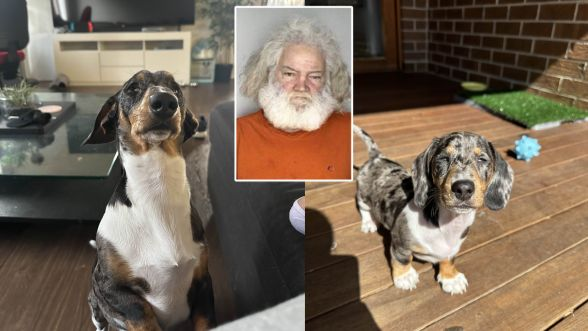
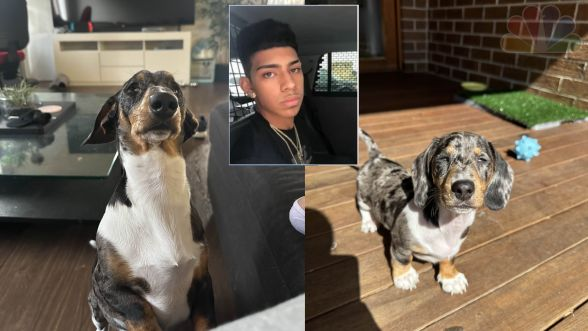
Updated files

Changed region(s): [[0.3673, 0.0, 0.6122, 0.574], [0.8265, 0.0, 0.9796, 0.1813]]

diff --git a/index.html b/index.html
@@ -3,7 +3,7 @@
 		<meta name="viewport" content="width=device-width, initial-scale=1">
 		
 	<link rel="profile" href="https://gmpg.org/xfn/11">
-	<title>Mall Santa Arrested After Fatal Incident Involving Dog at Philadelphia Mall</title>
+	<title>Outrage in Philadelphia: 19-Year-Old Arrested for Killing Service Dog Winston in Horrific Online Stunt</title>
 <meta name="robots" content="max-image-preview:large">
 <link rel="dns-prefetch" href="//ak.sail-horizon.com">
 <link rel="dns-prefetch" href="//cdn.parsely.com">
@@ -290,18 +290,18 @@ googletag.pubads().collapseEmptyDivs();
 	</div>
 <div class="article-header--wrap ">
 	<h1 class="article-headline">
-		Mall Santa Arrested After Fatal Incident Involving Dog at Philadelphia Mall
+		Outrage in Philadelphia: 19-Year-Old Arrested for Killing Service Dog 'Winston' in Horrific Online Stunt
 	</h1>
 				<h2 class="article-subtitle">
-					Mall Santa arrested after allegedly killing a service dog in a shocking holiday season incident at Philadelphia's Liberty Plaza Mall.		</h2>
+					19-year-old Jose Alvarez was arrested in Philadelphia for the brutal killing of service dog Winston, an act of animal cruelty streamed live on Instagram.		</h2>
 				
 <div class="article-meta" data-component="articleMeta">
 	<h4 class="article-byline">
 					By Diana Torralvo							<span class="meta-dot">•</span>
 					
 									<span class="time-wrap">
-					<time class="entry-date published" datetime="2024-11-24T19:00:00-05:00">Published December 24, 2024</time>						<span class="meta-dot">•</span>
-					<time class="entry-date updated" datetime="2024-11-24T08:32:01-05:00">Updated on <span class="date">December 24, 2024</span> at <span class="time">9:10 am</span></time>				</span>
+					<time class="entry-date published" datetime="2024-11-24T19:00:00-05:00">Published 26, 2024</time>						<span class="meta-dot">•</span>
+					<time class="entry-date updated" datetime="2024-11-24T08:32:01-05:00">Updated on <span class="date">December 26, 2024</span> at <span class="time">9:55 pm</span></time>				</span>
 						</h4>
 	<div class="share-buttons " data-component="sharingBar">
 				<a href="https://www.facebook.com/sharer/sharer.php?u=https%3A%2F%2Fwww.nbcphiladelphia.com%2Fcommunity%2Fbundle-up-philly-winter-clothing-drive%2F2628583%2F&amp;Bundle-Up%20Philly%20Winter%20Clothing%20Drive?_osource=db_npd_nbc_wcau_fb_shr" data-service="facebook" target="_blank">
@@ -325,7 +325,7 @@ googletag.pubads().collapseEmptyDivs();
 	</div>
 			<figcaption>
 							<cite>NBC10</cite>
-	<p>Image depicts blind dog, Luffy, in his family home prior to the murder. (NBC10)</p>		
+	<p>Image depicts blind dog, Winston, in his family home prior to the murder. (NBC10)</p>		
 					</figcaption>
 	</figure>
 									<div class="article-content rich-text">
@@ -333,7 +333,7 @@ googletag.pubads().collapseEmptyDivs();
 					
 
 
-<p>A disturbing incident unfolded at Liberty Plaza Mall on December 23 when a dog named Luffy was tragically killed in a confrontation with a man portraying Santa Claus. The man, identified as 54-year-old Luffy Hayes, who had been working as the mall’s Santa for the holiday season, was taken into custody by local authorities.<strong><a href="https://www.cradlestocrayons.org/philadelphia/nbcbundleup/" target="_blank" rel="noreferrer noopener"></a> </strong></p>
+<p>A shocking and tragic incident unfolded in Philadelphia on December 26, 2025, when a service dog named Winston was brutally killed in an act of unimaginable cruelty. The suspect, 19-year-old Jose Alvarez, was arrested after a video surfaced of the horrific event, which he streamed live on Instagram.<strong><a href="https://www.cradlestocrayons.org/philadelphia/nbcbundleup/" target="_blank" rel="noreferrer noopener"></a> </strong></p>
 <div class="mobile-app-promotion">
 	
 <div class="wp-block-nbc-html-block html-block"><p><a href="https://www.nbcphiladelphia.com/watch/?_osource=ed_npd_nbc_phi_site_fast_auto2" data-type="URL" data-id="https://www.nbcphiladelphia.com/watch/?_osource=ed_npd_nbc_phi_site_fast_auto2"><b>Philadelphia news 24/7: Watch NBC10 free wherever you are</b></a></p></div>
@@ -351,11 +351,11 @@ googletag.pubads().collapseEmptyDivs();
 <p><strong><span style="text-decoration: underline"></span></strong></p>
 
 
-<p>Witnesses described the scene as chaotic and deeply unsettling. Luffy, a service dog assisting a visually impaired woman, was walking past the mall’s holiday photo area when Hayes, still in his Santa attire, reportedly became agitated by the dog’s presence. An altercation ensued, during which Hayes allegedly struck Luffy. Despite the efforts of bystanders to intervene, the injuries sustained by the dog were fatal.</p>
+<p>Winston, a service dog trained to assist a visually impaired woman, had escaped from his home early that morning. Alvarez allegedly found and stole the dog, and in a shocking display of animal abuse, recorded himself inserting fireworks into Winston and detonating them. The graphic footage, broadcast online, quickly went viral, drawing widespread outrage and immediate calls for justice.</p>
 
-<p>Mall security and Philadelphia police were quick to respond, detaining Hayes at the scene. In a statement, a Philadelphia Police Department spokesperson confirmed Hayes was arrested and is facing multiple charges, including animal cruelty. “This is a heartbreaking incident that has shocked everyone involved,” the spokesperson said. “We are conducting a full investigation to determine exactly what happened.”</p>
+<p>The Philadelphia Police Department acted swiftly after receiving numerous tips from horrified social media users. Alvarez was located and taken into custody later that day. He is now facing multiple charges, including felony animal cruelty and unlawful use of explosives. In a statement, a police spokesperson described the act as “a reprehensible and deeply disturbing crime” and assured the public that a full investigation is underway.</p>
 
-<p>The incident has sparked outrage on social media, with many expressing disbelief that such an event could occur in a family-friendly setting. Liberty Plaza Mall management released a statement extending their condolences to Luffy’s owner and confirming that Hayes has been terminated. “This does not reflect the values of our community or our staff,” the statement read. A small memorial has since been set up near the mall’s holiday display, as patrons pay tribute to Luffy and call for justice.<em></em></p>
+<p>The incident has sparked national outrage, with animal rights organizations and community members condemning Alvarez’s actions and calling for the harshest penalties under the law. A makeshift memorial for Winston has been established by grieving residents, who have left flowers, notes, and candles to honor the beloved service dog’s memory. The tragedy has ignited renewed discussions on the importance of protecting vulnerable animals and stricter penalties for those who harm them.<em></em></p>
 			<div class="recirc-module">
 			<h3 class="recirc__heading">Local</h3>
 			<p class="recirc__subheading">Breaking news and the stories that matter to your neighborhood.</p>
@@ -625,9 +625,7 @@ googletag.pubads().collapseEmptyDivs();
 				adInstance.lazyLoadAd({ slotName: 'topbox_802', format: 'topbox', targeting: {"slot":"topbox","pos":"topbox"} });
 			</script></section><section id="nbc_weather_widget-3" class="widget widget_nbc_weather_widget">		<div class="nbc-weather-widget">
 			<div class="nbc_owned_television_stations_weather_iframe">
-	<h3>Weather Forecast</h3><div data-react-component="IframeLocation" data-market-name="Philadelphia, PA"></div>
-	<a class="weather-module__conditions" href="https://www.nbcphiladelphia.com/weather/">
-		<div data-react-component="IframeConditions" data-location="19101"></div>
+	
 	</a>
 		<div class="widget_sponsor">
 		<div id="div-gpt-ad-logo_weather_390" class="sponsored-ad-unit gpt-logo" data-beforetext="Presented By" data-fallbacktext=""></div><script style="text/javascript">
